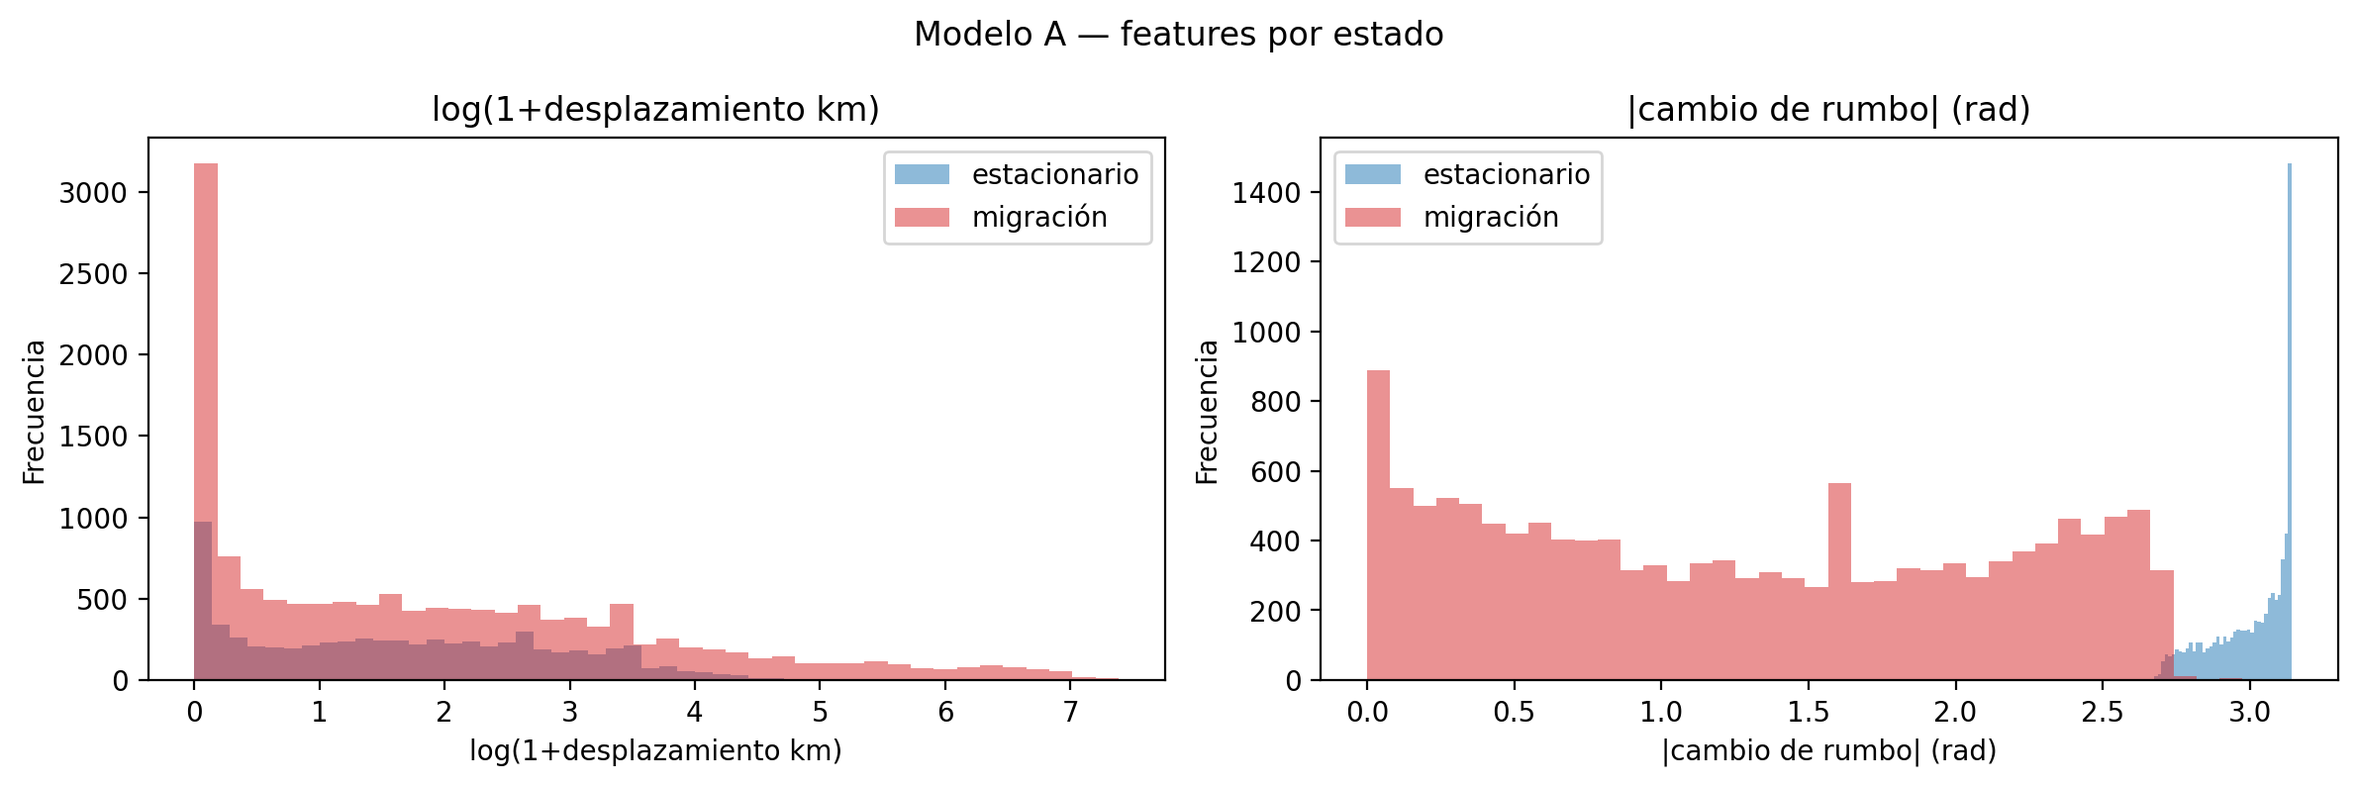
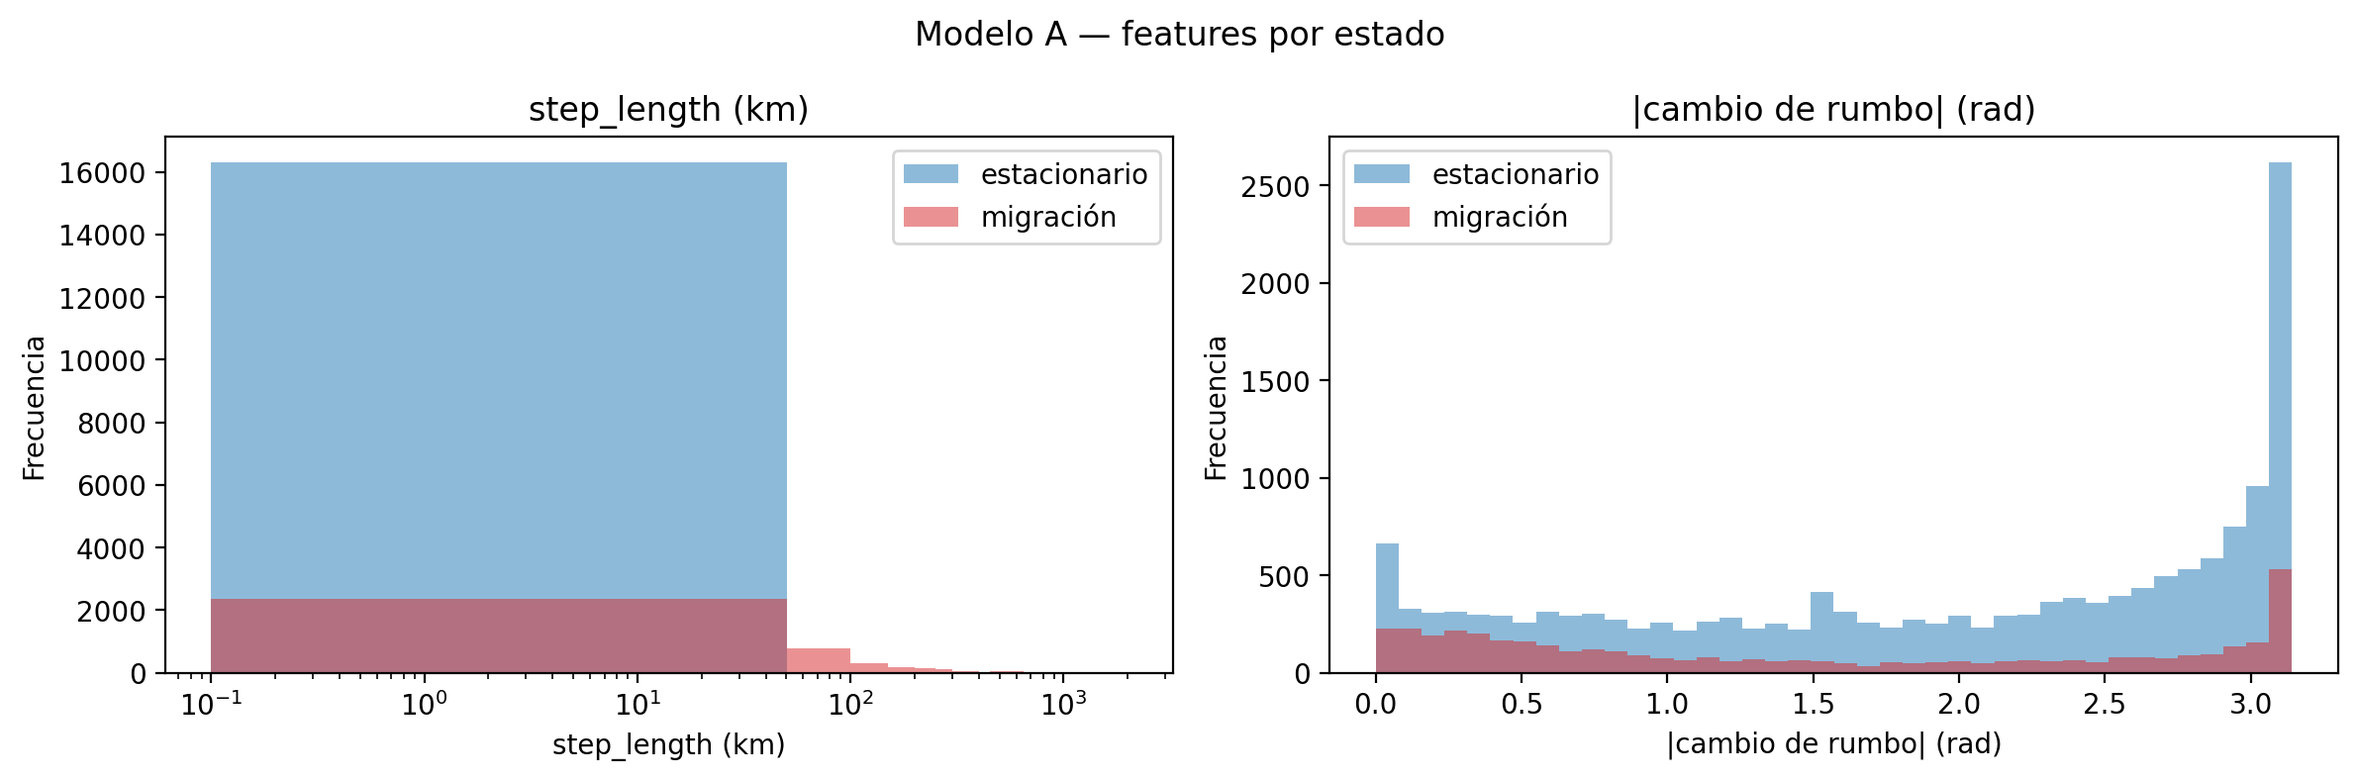
Rework hmm: usar cos(turning_angle) en lugar de |turning_angle|

diff --git a/notebooks/03_eda_o3.py b/notebooks/03_eda_o3.py
@@ -61,7 +61,7 @@ print(
 
 # %%
 train_ids, _ = stratified_holdout_split(df_features, holdout_frac=0.20, random_state=0)
-FEATURE_COLS_A = ["log_displacement_km", "abs_turning_angle_rad"]
+FEATURE_COLS_A = ["step_length_km", "abs_turning_angle_rad"]
 X_train, lengths_train = build_sequences(df_features, train_ids, FEATURE_COLS_A)
 print(f"Train: {len(X_train)} observaciones, {len(lengths_train)} secuencias")
 
@@ -90,7 +90,7 @@ def aic_bic(
 # %%
 rows = []
 for n in [2, 3, 4]:
-    model, scaler, ll, _ = fit_hmm_with_restarts(
+    model, ll, _ = fit_hmm_with_restarts(
         X_train,
         lengths_train,
         n_components=n,
@@ -122,7 +122,9 @@ save_artifact(
     decision="n_components fijado en 2 (estacionario + migración) respaldado por AIC/BIC sweep",
     caption_es=(
         "AIC y BIC para HMMs Modelo A con n_components ∈ {2, 3, 4} entrenados sobre el "
-        "conjunto de entrenamiento (80 % de aves) con 5 restarts. Se mantiene n=2 por "
+        "conjunto de entrenamiento (80 % de aves) con 5 restarts. La feature step_length_km "
+        "se usa en escala cruda (km), por lo que los valores absolutos de LL/AIC/BIC son "
+        "distintos a los de versiones previas con log-escala. Se mantiene n=2 por "
         "alineación con el proposal del TFG (estacionario vs migración) y por "
         "interpretabilidad biológica de los estados. Si AIC/BIC muestran preferencia "
         "marcada por n>2, los estados adicionales no admiten etiquetado biológico claro "
@@ -159,13 +161,19 @@ print(f"Filas válidas: {len(valid)}")
 
 # %%
 fig_c1, axes = plt.subplots(1, 2, figsize=(12, 4))
-for ax, col, title in [
-    (axes[0], "log_displacement_km", "log(1+desplazamiento km)"),
-    (axes[1], "abs_turning_angle_rad", "|cambio de rumbo| (rad)"),
+for ax, col, title, log_x in [
+    (axes[0], "step_length_km", "step_length (km)", True),
+    (axes[1], "abs_turning_angle_rad", "|cambio de rumbo| (rad)", False),
 ]:
     for state, label, color in [(0, "estacionario", "#1f77b4"), (1, "migración", "#d62728")]:
         sub = valid[valid["state_a"] == state]
-        ax.hist(sub[col], bins=40, alpha=0.5, label=label, color=color)
+        if log_x:
+            data = sub[col].clip(lower=0.1)
+            ax.hist(data, bins=40, range=(0.1, 2000), alpha=0.5, label=label, color=color)
+        else:
+            ax.hist(sub[col], bins=40, alpha=0.5, label=label, color=color)
+    if log_x:
+        ax.set_xscale("log")
     ax.set_xlabel(title)
     ax.set_ylabel("Frecuencia")
     ax.set_title(title)
@@ -183,13 +191,16 @@ save_artifact(
     ),
     caption_es=(
         "Distribución de las dos features cinemáticas del Modelo A condicionada al estado "
-        "Viterbi (estacionario en azul, migración en rojo). El estado estacionario concentra "
-        "masa en log_displacement_km bajo (ave estática) y abs_turning_angle_rad alto/aleatorio "
+        "Viterbi (estacionario en azul, migración en rojo). La feature step_length_km se muestra "
+        "en escala logarítmica para hacer visible la bimodalidad entre pocos km (estado "
+        "estacionario) y decenas-cientos de km (estado migración). El estado estacionario "
+        "concentra masa en step_length_km bajo y abs_turning_angle_rad alto/aleatorio "
         "(direcciones erráticas, sin rumbo sostenido). El estado migración presenta el patrón "
-        "contrario: log_displacement_km alto y abs_turning_angle_rad bajo (movimiento dirigido). "
+        "contrario: step_length_km alto y abs_turning_angle_rad bajo (movimiento dirigido). "
         "La separación visual confirma que el HMM A descubre estados con semántica biológica clara."
     ),
     fig=fig_c1,
+    overwrite=True,
 )
 
 # %% [markdown]
@@ -198,13 +209,19 @@ save_artifact(
 # %%
 fig_c2, axes = plt.subplots(2, 3, figsize=(15, 8))
 cols_b = [
-    "log_displacement_km", "abs_turning_angle_rad", "daylight_hours",
+    "step_length_km", "abs_turning_angle_rad", "daylight_hours",
     "veg_low", "veg_high",
 ]
 for ax, col in zip(axes.flat, cols_b, strict=False):
     for state, label, color in [(0, "estacionario", "#1f77b4"), (1, "migración", "#d62728")]:
         sub = valid[valid["state_b"] == state]
-        ax.hist(sub[col], bins=40, alpha=0.5, label=label, color=color)
+        if col == "step_length_km":
+            data = sub[col].clip(lower=0.1)
+            ax.hist(data, bins=40, range=(0.1, 2000), alpha=0.5, label=label, color=color)
+        else:
+            ax.hist(sub[col], bins=40, alpha=0.5, label=label, color=color)
+    if col == "step_length_km":
+        ax.set_xscale("log")
     ax.set_xlabel(col)
     ax.set_title(col)
     ax.legend()
@@ -222,13 +239,16 @@ save_artifact(
     ),
     caption_es=(
         "Distribución de las cinco features del Modelo B condicionada al estado Viterbi. "
-        "Las dos primeras (log_displacement_km, abs_turning_angle_rad) replican el patrón "
-        "del Modelo A. Las tres adicionales (daylight_hours, veg_low, veg_high) muestran si "
+        "La primera feature (step_length_km) se muestra en escala logarítmica. "
+        "Las dos primeras (step_length_km, abs_turning_angle_rad) replican el patrón "
+        "del Modelo A: bimodalidad entre pocos km (estacionario) y decenas-cientos km (migración). "
+        "Las tres adicionales (daylight_hours, veg_low, veg_high) muestran si "
         "los estados resultantes están condicionados también por contexto temporal y "
         "ambiental: comparar con C1 permite ver si el contexto refina la separación o si la "
         "domina (alarma de circularidad si los estados se reducen a 'verano vs invierno')."
     ),
     fig=fig_c2,
+    overwrite=True,
 )
 
 # %% [markdown]
@@ -295,6 +315,7 @@ save_artifact(
     ),
     fig=fig_c3,
     table=df_coherence,
+    overwrite=True,
 )
 
 # %% [markdown]
@@ -321,16 +342,17 @@ axes[0].set_title(f"Matriz de confusión A vs B (acuerdo {ag['pct_agreement']:.1
 disagreements = ag["disagreements"]
 if len(disagreements) > 0:
     axes[1].hist(
-        disagreements[disagreements["state_a"] == 0]["log_displacement_km"],
+        disagreements[disagreements["state_a"] == 0]["step_length_km"].clip(lower=0.1),
         bins=30, alpha=0.5, label="A=estac, B=migr", color="#ff7f0e",
     )
     axes[1].hist(
-        disagreements[disagreements["state_a"] == 1]["log_displacement_km"],
+        disagreements[disagreements["state_a"] == 1]["step_length_km"].clip(lower=0.1),
         bins=30, alpha=0.5, label="A=migr, B=estac", color="#2ca02c",
     )
-    axes[1].set_xlabel("log_displacement_km")
+    axes[1].set_xscale("log")
+    axes[1].set_xlabel("step_length_km")
     axes[1].set_ylabel("Frecuencia")
-    axes[1].set_title("Desacuerdos por log_displacement")
+    axes[1].set_title("Desacuerdos por step_length (km)")
     axes[1].legend()
 else:
     axes[1].axis("off")
@@ -348,9 +370,10 @@ save_artifact(
     caption_es=(
         "Acuerdo entre el Modelo A (cinemático) y el Modelo B (cinemático + contexto). "
         "Izquierda: matriz de confusión 2×2 sobre todas las (ave, día) válidas. Derecha: "
-        "histograma de log_displacement_km para los desacuerdos, separando 'A=estac/B=migr' "
-        "y 'A=migr/B=estac'. Los desacuerdos típicamente se concentran en valores intermedios "
-        "de desplazamiento (zona ambigua donde el contexto en B mueve la inferencia)."
+        "histograma de step_length_km (escala logarítmica, km) para los desacuerdos, "
+        "separando 'A=estac/B=migr' y 'A=migr/B=estac'. Los desacuerdos típicamente se "
+        "concentran en valores intermedios de desplazamiento (zona ambigua donde el "
+        "contexto en B mueve la inferencia)."
     ),
     fig=fig_c4,
     table=pd.DataFrame([
@@ -358,6 +381,7 @@ save_artifact(
         {"metric": "pct_b_adds_migration", "value": float(ag["pct_b_adds_migration"])},
         {"metric": "pct_b_adds_stationary", "value": float(ag["pct_b_adds_stationary"])},
     ]),
+    overwrite=True,
 )
 
 # %% [markdown]
@@ -399,4 +423,5 @@ save_artifact(
     ),
     fig=fig_c5,
     table=per_bird.reset_index()[["bird_id", "pct_migration_a", "pct_migration_b"]],
+    overwrite=True,
 )

diff --git a/tests/test_hmm_fit.py b/tests/test_hmm_fit.py
@@ -32,15 +32,15 @@ def _synthetic_features_df(
             state = 0 if d < n_days // 2 else 1
             if state == 0:
                 step_km = abs(rng.normal(3.0, 1.5))
-                turning = rng.uniform(np.pi / 2, np.pi)
+                cos_turn = rng.uniform(-1.0, 0.0)   # giro errático → cos ∈ [-1, 0]
             else:
                 step_km = abs(rng.normal(150.0, 50.0))
-                turning = rng.uniform(0.0, np.pi / 4)
+                cos_turn = rng.uniform(0.7, 1.0)    # vuelo recto → cos ∈ [0.7, 1]
             rows.append({
                 "bird_id": bird_id,
                 "date_utc": dt.date(2010, 6, 1) + dt.timedelta(days=d),
                 "step_length_km": step_km,
-                "abs_turning_angle_rad": turning,
+                "cos_turning_angle": cos_turn,
                 "is_observation_valid": True,
             })
     return pd.DataFrame(rows)
@@ -67,7 +67,7 @@ def test_build_sequences_concatena_aves() -> None:
     X, lengths = build_sequences(
         df,
         bird_ids=["BIRD00", "BIRD01", "BIRD02"],
-        feature_cols=["step_length_km", "abs_turning_angle_rad"],
+        feature_cols=["step_length_km", "cos_turning_angle"],
     )
     assert X.shape == (75, 2)
     assert lengths == [20, 30, 25]
@@ -79,7 +79,7 @@ def test_fit_converge_sobre_datos_sinteticos() -> None:
     X, lengths = build_sequences(
         df,
         bird_ids=[f"BIRD{i:02d}" for i in range(5)],
-        feature_cols=["step_length_km", "abs_turning_angle_rad"],
+        feature_cols=["step_length_km", "cos_turning_angle"],
     )
     model, best_ll, all_lls = fit_hmm_with_restarts(
         X, lengths, n_components=2, n_restarts=3, random_state=0,
@@ -96,7 +96,7 @@ def test_multiple_restarts_no_decrecen_ll() -> None:
     X, lengths = build_sequences(
         df,
         bird_ids=[f"BIRD{i:02d}" for i in range(3)],
-        feature_cols=["step_length_km", "abs_turning_angle_rad"],
+        feature_cols=["step_length_km", "cos_turning_angle"],
     )
     _, ll_1, _ = fit_hmm_with_restarts(X, lengths, n_restarts=1, random_state=42)
     _, ll_3, _ = fit_hmm_with_restarts(X, lengths, n_restarts=3, random_state=42)
@@ -109,10 +109,10 @@ def test_relabel_states_pone_estacionario_en_0() -> None:
     X, lengths = build_sequences(
         df,
         bird_ids=[f"BIRD{i:02d}" for i in range(5)],
-        feature_cols=["step_length_km", "abs_turning_angle_rad"],
+        feature_cols=["step_length_km", "cos_turning_angle"],
     )
     model, _, _ = fit_hmm_with_restarts(X, lengths, n_restarts=2, random_state=0)
-    label_map = relabel_states(model, ["step_length_km", "abs_turning_angle_rad"])
+    label_map = relabel_states(model, ["step_length_km", "cos_turning_angle"])
     # Debe haber exactamente 2 entradas, valores son las etiquetas.
     assert set(label_map.values()) == {"estacionario", "migración"}
     # El estado con menor media en km crudos → estacionario.

diff --git a/src/tfg_aves/hmm/features.py b/src/tfg_aves/hmm/features.py
@@ -70,6 +70,11 @@ def compute_observation_features(
     logarítmica). La bimodalidad estacionario/migración debe ser visible en
     escala original para que el HMM capture los dos regímenes sin necesidad de
     estandarización.
+
+    Columna de giro: ``cos_turning_angle`` = cos(ángulo de giro) ∈ [-1, 1].
+    Vuelo recto → cos ≈ +1; giro de 180° → cos ≈ -1. Más suave y acotada
+    que el ángulo absoluto, lo que mejora el comportamiento de la emisión
+    gaussiana del HMM (convención HMM5 de v2).
     """
     df = df_daily.sort_values(["bird_id", "date_utc"]).reset_index(drop=True).copy()
     df["_date_dt"] = pd.to_datetime(df["date_utc"])
@@ -108,10 +113,10 @@ def compute_observation_features(
     bearing_in = bearing_rad(lat_prev, lon_prev, lat_t, lon_t)
     bearing_out = bearing_rad(lat_t, lon_t, lat_next, lon_next)
     turning = np.asarray(bearing_out) - np.asarray(bearing_in)
-    # Normalizar a [-π, π] y luego tomar valor absoluto → [0, π].
+    # Normalizar a [-π, π] y aplicar coseno → [-1, 1] (vuelo recto = +1).
     turning = (turning + np.pi) % (2.0 * np.pi) - np.pi
-    abs_turning = np.full(len(df), np.nan)
-    abs_turning[triplet_mask] = np.abs(turning[triplet_mask])
+    cos_turning_full = np.full(len(df), np.nan)
+    cos_turning_full[triplet_mask] = np.cos(turning[triplet_mask])
 
     # Daylight hours sólo para días con lat válida.
     dl = np.full(len(df), np.nan)
@@ -120,7 +125,7 @@ def compute_observation_features(
 
     out = df.copy()
     out["step_length_km"] = disp_km
-    out["abs_turning_angle_rad"] = abs_turning
+    out["cos_turning_angle"] = cos_turning_full
     out["daylight_hours"] = dl
     out["is_observation_valid"] = triplet_mask.to_numpy()
 
@@ -138,12 +143,12 @@ def compute_observation_features(
 
     # Limpieza: invalida features para filas no-triplete.
     not_valid = ~out["is_observation_valid"]
-    for col in ["step_length_km", "abs_turning_angle_rad"]:
+    for col in ["step_length_km", "cos_turning_angle"]:
         out.loc[not_valid, col] = np.nan
 
     cols_out = [
         "bird_id", "date_utc", "lat", "lon",
-        "step_length_km", "abs_turning_angle_rad", "daylight_hours",
+        "step_length_km", "cos_turning_angle", "daylight_hours",
         "veg_low", "veg_high", "is_observation_valid",
     ]
     if "source_event_id" in out.columns:

diff --git a/tests/test_hmm_evaluate.py b/tests/test_hmm_evaluate.py
@@ -21,10 +21,10 @@ def _synthetic_features_for_eval(n_birds: int = 5, days: int = 40) -> pd.DataFra
             step_km = abs(
                 rng.normal(3.0 if state == 0 else 150.0, 1.5 if state == 0 else 50.0)
             )
-            turning = (
-                rng.uniform(np.pi / 2, np.pi)
+            cos_turn = (
+                rng.uniform(-1.0, 0.0)   # giro errático → cos ∈ [-1, 0]
                 if state == 0
-                else rng.uniform(0, np.pi / 4)
+                else rng.uniform(0.7, 1.0)  # vuelo recto → cos ∈ [0.7, 1]
             )
             rows.append({
                 "bird_id": f"BIRD{b:02d}",
@@ -32,7 +32,7 @@ def _synthetic_features_for_eval(n_birds: int = 5, days: int = 40) -> pd.DataFra
                 "lat": 50.0,
                 "lon": 0.0,
                 "step_length_km": step_km,
-                "abs_turning_angle_rad": turning,
+                "cos_turning_angle": cos_turn,
                 "is_observation_valid": True,
             })
     return pd.DataFrame(rows)
@@ -43,7 +43,7 @@ def test_log_likelihood_per_obs_finito() -> None:
     X, lengths = build_sequences(
         df,
         bird_ids=df["bird_id"].unique().tolist(),
-        feature_cols=["step_length_km", "abs_turning_angle_rad"],
+        feature_cols=["step_length_km", "cos_turning_angle"],
     )
     model, _, _ = fit_hmm_with_restarts(X, lengths, n_restarts=2, random_state=0)
     ll = log_likelihood_per_obs(model, X, lengths)

diff --git a/tests/test_hmm_features.py b/tests/test_hmm_features.py
@@ -30,7 +30,7 @@ def test_bearing_rad_norte() -> None:
 
 
 def test_turning_angle_linea_recta() -> None:
-    """Tres puntos en línea recta hacia el norte → turning_angle ≈ 0."""
+    """Tres puntos en línea recta hacia el norte → cos(turning_angle) ≈ 1."""
     df = _make_daily(
         [
             {
@@ -60,11 +60,11 @@ def test_turning_angle_linea_recta() -> None:
     # El día central (índice 1) es el que tiene turning angle definido.
     valid = out[out["is_observation_valid"]]
     assert len(valid) == 1
-    assert abs(valid.iloc[0]["abs_turning_angle_rad"]) < 1e-3
+    assert valid.iloc[0]["cos_turning_angle"] == pytest.approx(1.0, abs=1e-3)
 
 
 def test_turning_angle_giro_180() -> None:
-    """Norte-norte-sur: turning_angle ≈ π."""
+    """Norte-norte-sur: cos(turning_angle) ≈ -1."""
     df = _make_daily(
         [
             {
@@ -93,7 +93,7 @@ def test_turning_angle_giro_180() -> None:
     out = compute_observation_features(df, df_raw=None)
     valid = out[out["is_observation_valid"]]
     assert len(valid) == 1
-    assert valid.iloc[0]["abs_turning_angle_rad"] == pytest.approx(np.pi, abs=1e-3)
+    assert valid.iloc[0]["cos_turning_angle"] == pytest.approx(-1.0, abs=1e-3)
 
 
 def test_daylight_equinoccio_y_solsticio() -> None:

diff --git a/src/tfg_aves/hmm/build.py b/src/tfg_aves/hmm/build.py
@@ -31,9 +31,9 @@ class BuildO3Result:
     pct_agreement_ab: float
 
 
-FEATURE_COLS_A = ["step_length_km", "abs_turning_angle_rad"]
+FEATURE_COLS_A = ["step_length_km", "cos_turning_angle"]
 FEATURE_COLS_B = [
-    "step_length_km", "abs_turning_angle_rad",
+    "step_length_km", "cos_turning_angle",
     "veg_low", "veg_high", "daylight_hours",
 ]
 
@@ -96,7 +96,7 @@ def build_o3(
     # Reordenar columnas según esquema del spec (sección 6.1).
     cols_final = [
         "bird_id", "date_utc", "lat", "lon",
-        "step_length_km", "abs_turning_angle_rad", "daylight_hours",
+        "step_length_km", "cos_turning_angle", "daylight_hours",
         "veg_low", "veg_high",
         "state_a", "state_b",
         "posterior_a_estacionario", "posterior_a_migracion",

diff --git a/tests/test_hmm_build.py b/tests/test_hmm_build.py
@@ -86,7 +86,7 @@ def test_build_o3_esquema_features_releen(tmp_path: Path) -> None:
     feats = pd.read_parquet(result.features_path)
     expected = {
         "bird_id", "date_utc", "lat", "lon",
-        "step_length_km", "abs_turning_angle_rad", "daylight_hours",
+        "step_length_km", "cos_turning_angle", "daylight_hours",
         "veg_low", "veg_high",
         "state_a", "state_b",
         "posterior_a_estacionario", "posterior_a_migracion",

diff --git a/reports/captions/o3_fig02_features-by-state-a.md b/reports/captions/o3_fig02_features-by-state-a.md
@@ -6,4 +6,4 @@
 
 ## Caption (memoria)
 
-Distribución de las dos features cinemáticas del Modelo A condicionada al estado Viterbi (estacionario en azul, migración en rojo). El estado estacionario concentra masa en log_displacement_km bajo (ave estática) y abs_turning_angle_rad alto/aleatorio (direcciones erráticas, sin rumbo sostenido). El estado migración presenta el patrón contrario: log_displacement_km alto y abs_turning_angle_rad bajo (movimiento dirigido). La separación visual confirma que el HMM A descubre estados con semántica biológica clara.
+Distribución de las dos features cinemáticas del Modelo A condicionada al estado Viterbi (estacionario en azul, migración en rojo). La feature step_length_km se muestra en escala logarítmica para hacer visible la bimodalidad entre pocos km (estado estacionario) y decenas-cientos de km (estado migración). El estado estacionario concentra masa en step_length_km bajo y abs_turning_angle_rad alto/aleatorio (direcciones erráticas, sin rumbo sostenido). El estado migración presenta el patrón contrario: step_length_km alto y abs_turning_angle_rad bajo (movimiento dirigido). La separación visual confirma que el HMM A descubre estados con semántica biológica clara.

diff --git a/reports/captions/o3_fig03_features-by-state-b.md b/reports/captions/o3_fig03_features-by-state-b.md
@@ -6,4 +6,4 @@
 
 ## Caption (memoria)
 
-Distribución de las cinco features del Modelo B condicionada al estado Viterbi. Las dos primeras (log_displacement_km, abs_turning_angle_rad) replican el patrón del Modelo A. Las tres adicionales (daylight_hours, veg_low, veg_high) muestran si los estados resultantes están condicionados también por contexto temporal y ambiental: comparar con C1 permite ver si el contexto refina la separación o si la domina (alarma de circularidad si los estados se reducen a 'verano vs invierno').
+Distribución de las cinco features del Modelo B condicionada al estado Viterbi. La primera feature (step_length_km) se muestra en escala logarítmica. Las dos primeras (step_length_km, abs_turning_angle_rad) replican el patrón del Modelo A: bimodalidad entre pocos km (estacionario) y decenas-cientos km (migración). Las tres adicionales (daylight_hours, veg_low, veg_high) muestran si los estados resultantes están condicionados también por contexto temporal y ambiental: comparar con C1 permite ver si el contexto refina la separación o si la domina (alarma de circularidad si los estados se reducen a 'verano vs invierno').

diff --git a/reports/captions/o3_fig01_nstates-aic-bic-sweep.md b/reports/captions/o3_fig01_nstates-aic-bic-sweep.md
@@ -7,4 +7,4 @@
 
 ## Caption (memoria)
 
-AIC y BIC para HMMs Modelo A con n_components ∈ {2, 3, 4} entrenados sobre el conjunto de entrenamiento (80 % de aves) con 5 restarts. Se mantiene n=2 por alineación con el proposal del TFG (estacionario vs migración) y por interpretabilidad biológica de los estados. Si AIC/BIC muestran preferencia marcada por n>2, los estados adicionales no admiten etiquetado biológico claro y se documenta como follow-up en lugar de adoptarse.
+AIC y BIC para HMMs Modelo A con n_components ∈ {2, 3, 4} entrenados sobre el conjunto de entrenamiento (80 % de aves) con 5 restarts. La feature step_length_km se usa en escala cruda (km), por lo que los valores absolutos de LL/AIC/BIC son distintos a los de versiones previas con log-escala. Se mantiene n=2 por alineación con el proposal del TFG (estacionario vs migración) y por interpretabilidad biológica de los estados. Si AIC/BIC muestran preferencia marcada por n>2, los estados adicionales no admiten etiquetado biológico claro y se documenta como follow-up en lugar de adoptarse.

diff --git a/reports/captions/o3_fig05_ab-agreement.md b/reports/captions/o3_fig05_ab-agreement.md
@@ -7,4 +7,4 @@
 
 ## Caption (memoria)
 
-Acuerdo entre el Modelo A (cinemático) y el Modelo B (cinemático + contexto). Izquierda: matriz de confusión 2×2 sobre todas las (ave, día) válidas. Derecha: histograma de log_displacement_km para los desacuerdos, separando 'A=estac/B=migr' y 'A=migr/B=estac'. Los desacuerdos típicamente se concentran en valores intermedios de desplazamiento (zona ambigua donde el contexto en B mueve la inferencia).
+Acuerdo entre el Modelo A (cinemático) y el Modelo B (cinemático + contexto). Izquierda: matriz de confusión 2×2 sobre todas las (ave, día) válidas. Derecha: histograma de step_length_km (escala logarítmica, km) para los desacuerdos, separando 'A=estac/B=migr' y 'A=migr/B=estac'. Los desacuerdos típicamente se concentran en valores intermedios de desplazamiento (zona ambigua donde el contexto en B mueve la inferencia).
